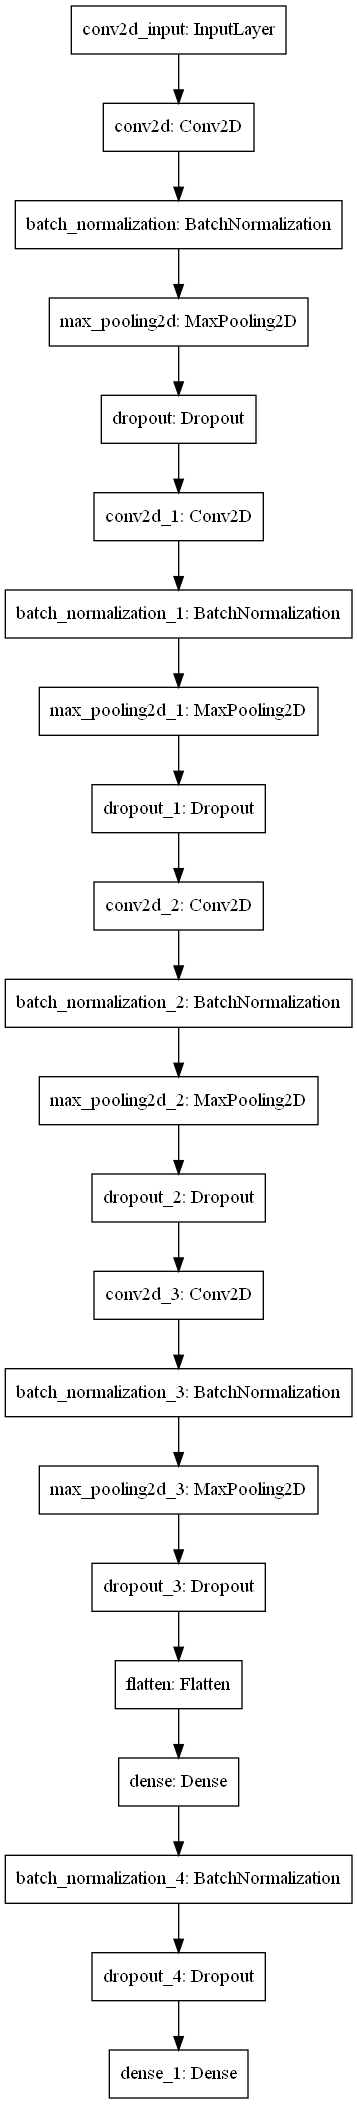
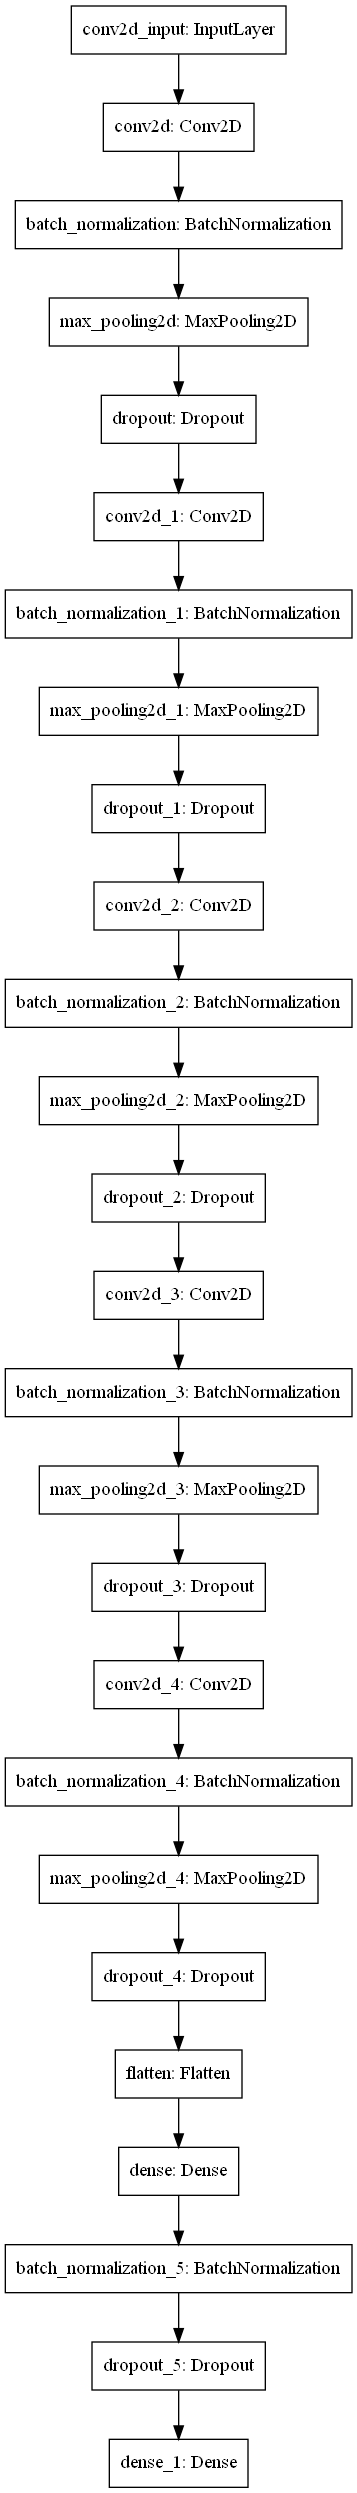
Created new optuna model overnight

diff --git a/Pipeline/Grid_Search/Grid_Search_dog_cat.py b/Pipeline/Grid_Search/Grid_Search_dog_cat.py
@@ -25,11 +25,11 @@ class Objective:
 
     def __call__(self, trial):
         # Create study parameters
-        num_filters_1 = trial.suggest_categorical('num_filters_1', [16, 32, 48, 64, 128, 256, 512])
-        num_filters_2 = trial.suggest_categorical('num_filters_2', [16, 32, 48, 64, 128, 256, 512])
-        num_filters_3 = trial.suggest_categorical('num_filters_3', [16, 32, 48, 64, 128, 256, 512])
-        num_filters_4 = trial.suggest_categorical('num_filters_4', [16, 32, 48, 64, 128, 256, 512])
-        num_filters_5 = trial.suggest_categorical('num_filters_5', [16, 32, 48, 64, 128, 256, 512])
+        num_filters_1 = trial.suggest_int('num_filters_1', 16, 512)
+        num_filters_2 = trial.suggest_int('num_filters_2', 16, 512)
+        num_filters_3 = trial.suggest_int('num_filters_3', 16, 512)
+        num_filters_4 = trial.suggest_int('num_filters_4', 16, 512)
+        num_filters_5 = trial.suggest_int('num_filters_5', 16, 512)
 
         kernel_size_1 = trial.suggest_int('kernel_size_1', 2, 5)
         kernel_size_2 = trial.suggest_int('kernel_size_2', 2, 5)
@@ -56,9 +56,9 @@ class Objective:
         activations_6 = trial.suggest_categorical('activation_6', ['relu', 'sigmoid', 'tanh', 'selu',
                                                                    'softmax', 'swish', mish])
 
-        dense_nodes = trial.suggest_categorical('num_dense_nodes', [32, 64, 128, 256, 512, 1024])
-        batch_size = trial.suggest_categorical('batch_size', [8, 16, 32, 64, 96, 128, 256])
-        dropout_rate = trial.suggest_categorical('dropout_rate', 0.4, 0.8)
+        dense_nodes = trial.suggest_int('num_dense_nodes', 32, 1024)
+        batch_size = trial.suggest_int('batch_size', 8, 256)
+        dropout_rate = trial.suggest_float('dropout_rate', 0.4, 0.8)
 
         # Add study params to dictionary for organization
         dict_params = {
